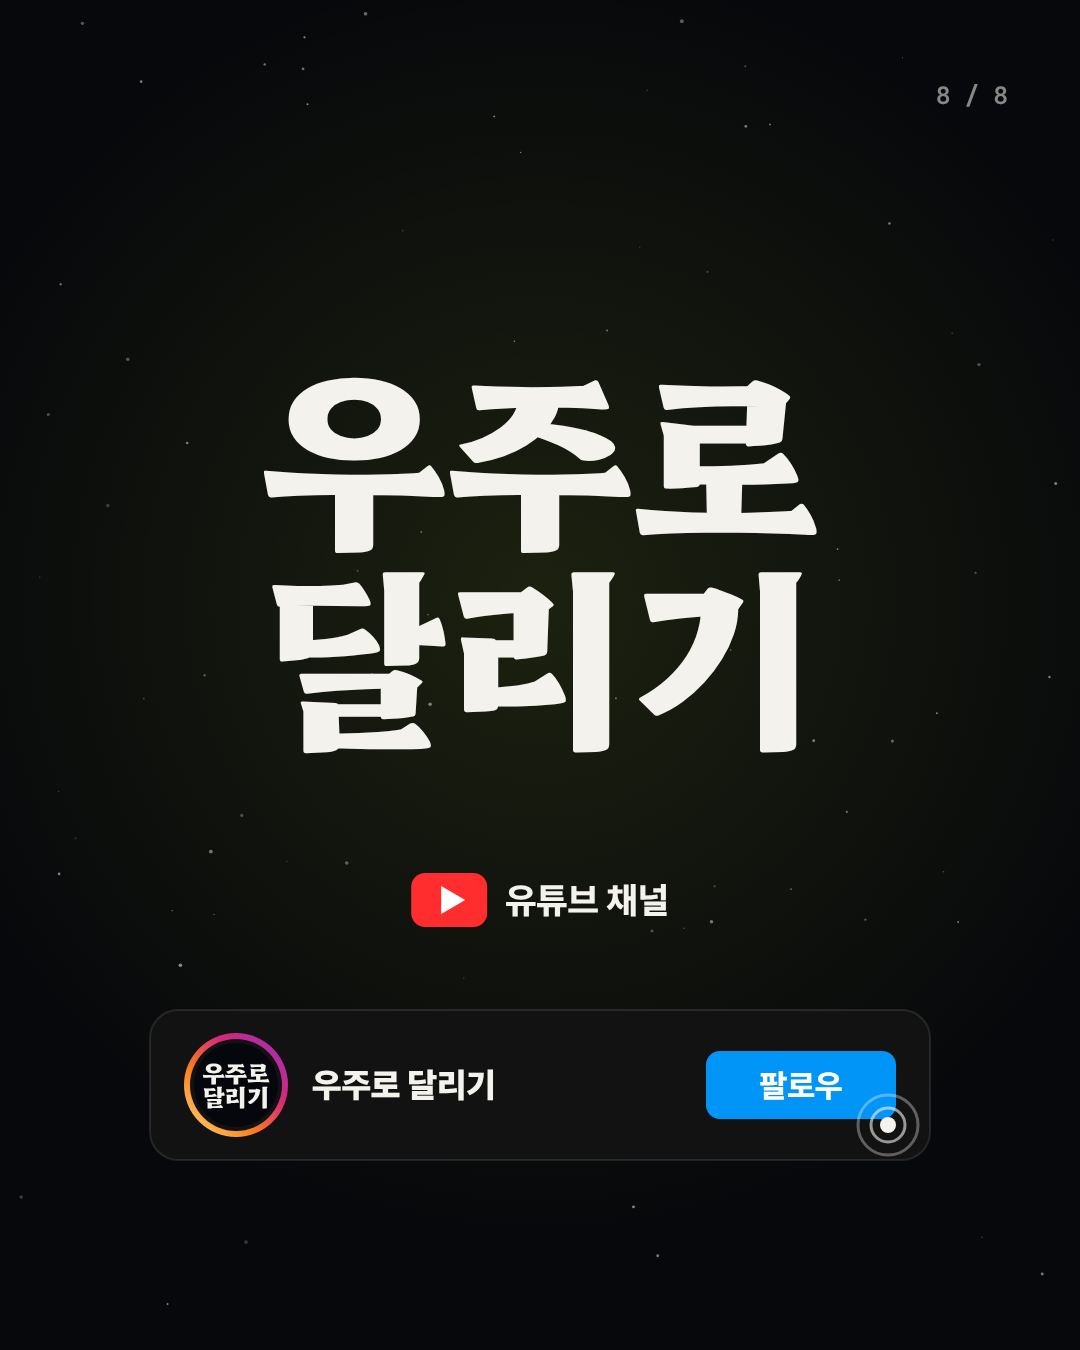
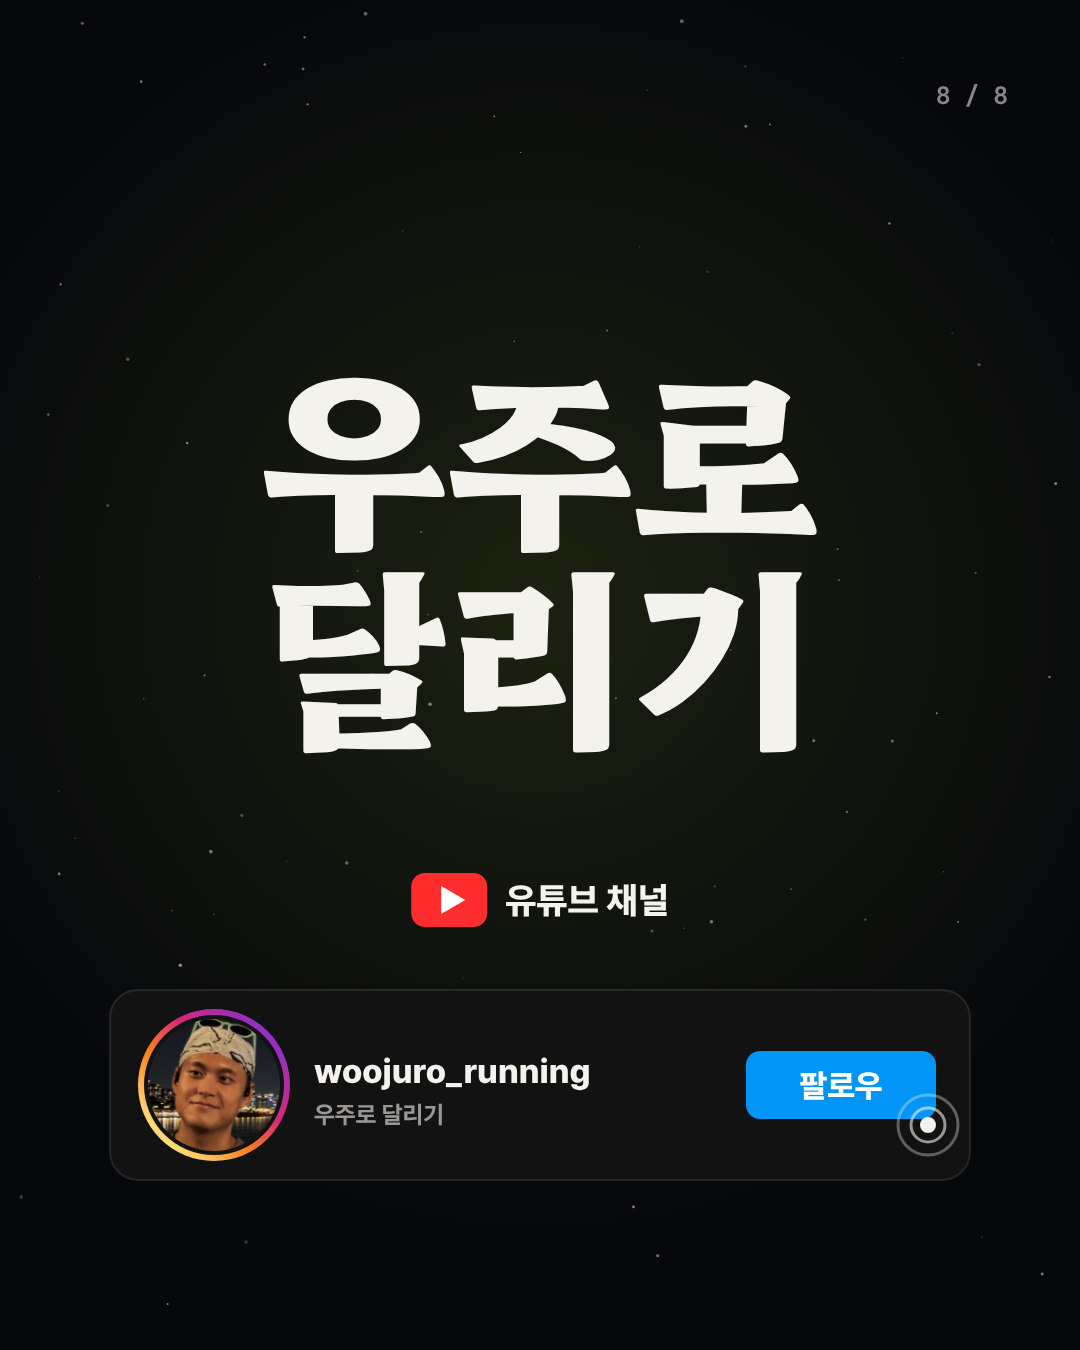
Add circular profile photo and @woojuro_running handle to promo card
Claude-Session: https://claude.ai/code/session_014Y6EAQ8ssYscUPsXE8Frp2

Changed region(s): [[0.1222, 0.7467, 0.55, 0.8711], [0.6417, 0.7778, 0.8861, 0.8711]]

diff --git a/.claude/skills/instagram-training-feed/template/cards.js b/.claude/skills/instagram-training-feed/template/cards.js
@@ -313,14 +313,20 @@ const FEED_CARDS = [
     ctx.fillStyle = '#FFF'; ctx.beginPath(); ctx.moveTo(yx + 30, yy - 14); ctx.lineTo(yx + 54, yy); ctx.lineTo(yx + 30, yy + 14); ctx.closePath(); ctx.fill();
     txt(yt, yx + 94, yy + 13, { size: 36, weight: 800 });
     // 인스타그램 프로필 행처럼: 그라데이션 링 아바타 + 이름 + 파란 팔로우 버튼
-    const px = 150, py = 1010, pw = W - 300, ph = 150;
+    const px = 110, py = 990, pw = W - 220, ph = 190;
     rrect(px, py, pw, ph, 28); ctx.fillStyle = '#121212'; ctx.fill(); ctx.strokeStyle = 'rgba(255,255,255,.1)'; ctx.lineWidth = 2; ctx.stroke();
-    const ax = px + 86, ay = py + ph / 2;
+    const ax = px + 104, ay = py + ph / 2;
     const ring = ctx.createLinearGradient(ax - 50, ay + 50, ax + 50, ay - 50);
     ring.addColorStop(0, '#FEDA75'); ring.addColorStop(.35, '#FA7E1E'); ring.addColorStop(.65, '#D62976'); ring.addColorStop(1, '#962FBF');
-    circle(ax, ay, 52, { fill: ring }); circle(ax, ay, 46, { fill: '#121212' }); circle(ax, ay, 42, { fill: '#05070C' });
-    woojuroText(ax, ay, 24, [['우주로', 0], ['달리기', 0]], .9);
-    txt('우주로 달리기', ax + 76, ay + 12, { size: 34, weight: 900 });
+    circle(ax, ay, 76, { fill: ring }); circle(ax, ay, 70, { fill: '#121212' });
+    // 프로필 사진 (얼굴 부분 원형 크롭)
+    const img = window.PROFILE_IMG, pr = 66;
+    if (img && img.complete && img.naturalWidth) {
+      ctx.save(); ctx.beginPath(); ctx.arc(ax, ay, pr, 0, Math.PI * 2); ctx.clip();
+      ctx.drawImage(img, 600, 520, 560, 560, ax - pr, ay - pr, pr * 2, pr * 2); ctx.restore();
+    } else { circle(ax, ay, pr, { fill: '#05070C' }); woojuroText(ax, ay, 24, [['우주로', 0], ['달리기', 0]], .9); }
+    txt('woojuro_running', ax + 100, ay - 2, { size: 34, weight: 800 });
+    txt('우주로 달리기', ax + 100, ay + 38, { size: 24, weight: 700, alpha: .6 });
     const bw = 190, bh = 68, bx = px + pw - bw - 34, by = ay - bh / 2;
     rrect(bx, by, bw, bh, 14); ctx.fillStyle = '#0095F6'; ctx.fill();
     txt('팔로우', bx + bw / 2, by + 46, { size: 32, weight: 800, color: '#FFFFFF', align: 'center' });
@@ -339,7 +345,9 @@ window.workoutImage = () => {
   const o = document.createElement('canvas'); o.width = W; o.height = 374; o.getContext('2d').drawImage(cv, 0, 0);
   return o.toDataURL('image/png');
 };
+window.PROFILE_IMG = new Image(); window.PROFILE_IMG.src = 'assets/profile.jpg';
 window.ready = window.ready.then(async () => {
+  try { await window.PROFILE_IMG.decode(); } catch (e) { /* 사진이 없으면 로고 아바타로 대체 */ }
   await document.fonts.load('400 100px "Black Han Sans"', '우주로 달리기');
   await document.fonts.load(`${window.BRAND_SIMPLE_WEIGHT || 400} 100px ${window.BRAND_SIMPLE_FONT}`, '우주로 달리기');
   const f = new FontFace('yg-jalnan', 'url(node_modules/@noonnu/yg-jalnan/fonts/yg-jalnan-normal.woff)'); await f.load(); document.fonts.add(f);

diff --git a/run-review/cards.js b/run-review/cards.js
@@ -313,14 +313,20 @@ const FEED_CARDS = [
     ctx.fillStyle = '#FFF'; ctx.beginPath(); ctx.moveTo(yx + 30, yy - 14); ctx.lineTo(yx + 54, yy); ctx.lineTo(yx + 30, yy + 14); ctx.closePath(); ctx.fill();
     txt(yt, yx + 94, yy + 13, { size: 36, weight: 800 });
     // 인스타그램 프로필 행처럼: 그라데이션 링 아바타 + 이름 + 파란 팔로우 버튼
-    const px = 150, py = 1010, pw = W - 300, ph = 150;
+    const px = 110, py = 990, pw = W - 220, ph = 190;
     rrect(px, py, pw, ph, 28); ctx.fillStyle = '#121212'; ctx.fill(); ctx.strokeStyle = 'rgba(255,255,255,.1)'; ctx.lineWidth = 2; ctx.stroke();
-    const ax = px + 86, ay = py + ph / 2;
+    const ax = px + 104, ay = py + ph / 2;
     const ring = ctx.createLinearGradient(ax - 50, ay + 50, ax + 50, ay - 50);
     ring.addColorStop(0, '#FEDA75'); ring.addColorStop(.35, '#FA7E1E'); ring.addColorStop(.65, '#D62976'); ring.addColorStop(1, '#962FBF');
-    circle(ax, ay, 52, { fill: ring }); circle(ax, ay, 46, { fill: '#121212' }); circle(ax, ay, 42, { fill: '#05070C' });
-    woojuroText(ax, ay, 24, [['우주로', 0], ['달리기', 0]], .9);
-    txt('우주로 달리기', ax + 76, ay + 12, { size: 34, weight: 900 });
+    circle(ax, ay, 76, { fill: ring }); circle(ax, ay, 70, { fill: '#121212' });
+    // 프로필 사진 (얼굴 부분 원형 크롭)
+    const img = window.PROFILE_IMG, pr = 66;
+    if (img && img.complete && img.naturalWidth) {
+      ctx.save(); ctx.beginPath(); ctx.arc(ax, ay, pr, 0, Math.PI * 2); ctx.clip();
+      ctx.drawImage(img, 600, 520, 560, 560, ax - pr, ay - pr, pr * 2, pr * 2); ctx.restore();
+    } else { circle(ax, ay, pr, { fill: '#05070C' }); woojuroText(ax, ay, 24, [['우주로', 0], ['달리기', 0]], .9); }
+    txt('woojuro_running', ax + 100, ay - 2, { size: 34, weight: 800 });
+    txt('우주로 달리기', ax + 100, ay + 38, { size: 24, weight: 700, alpha: .6 });
     const bw = 190, bh = 68, bx = px + pw - bw - 34, by = ay - bh / 2;
     rrect(bx, by, bw, bh, 14); ctx.fillStyle = '#0095F6'; ctx.fill();
     txt('팔로우', bx + bw / 2, by + 46, { size: 32, weight: 800, color: '#FFFFFF', align: 'center' });
@@ -339,7 +345,9 @@ window.workoutImage = () => {
   const o = document.createElement('canvas'); o.width = W; o.height = 374; o.getContext('2d').drawImage(cv, 0, 0);
   return o.toDataURL('image/png');
 };
+window.PROFILE_IMG = new Image(); window.PROFILE_IMG.src = 'assets/profile.jpg';
 window.ready = window.ready.then(async () => {
+  try { await window.PROFILE_IMG.decode(); } catch (e) { /* 사진이 없으면 로고 아바타로 대체 */ }
   await document.fonts.load('400 100px "Black Han Sans"', '우주로 달리기');
   await document.fonts.load(`${window.BRAND_SIMPLE_WEIGHT || 400} 100px ${window.BRAND_SIMPLE_FONT}`, '우주로 달리기');
   const f = new FontFace('yg-jalnan', 'url(node_modules/@noonnu/yg-jalnan/fonts/yg-jalnan-normal.woff)'); await f.load(); document.fonts.add(f);

diff --git a/.claude/skills/instagram-training-feed/SKILL.md b/.claude/skills/instagram-training-feed/SKILL.md
@@ -74,7 +74,7 @@ description: "인스타그램 훈련 피드 양식" — Garmin 러닝 데이터(
 | 05 심박존 분석 | 본훈련 존 도넛 + 존별 시간·% + 세트별 존 누적 막대 |
 | 06 회복 & 라스트 | 회복 조깅 N회 평균(거리·페이스·심박) + 구간 칩 / 라스트 스퍼트 페이스 + 약 520m + 목표 대비 |
 | 07 러닝 다이내믹스 | 케이던스·보폭·지면 접촉·수직 진폭·수직 비율·최고 속도 + 훈련 효과 게이지 |
-| 08 우주로 달리기 (홍보) | 최소한으로. 정가운데 `woojuroText()` 로고 — **흰색 한 색, 장식 없음**(기울임·그림자·그라데이션·라임 강조 모두 금지, 사용자 피드백). 서체만 `window.BRAND_SIMPLE_FONT`로 바꿔 쓴다(기본 **Hahmlet ExtraBold**, 사용자 선택 6번). 후보 비교는 `template/font-options.html`(Orbit, Do Hyeon, Gasoek One, Song Myung, Gothic A1, Hahmlet, Jua, Bagel Fat One). 아래에 유튜브 아이콘 + "유튜브 채널", 인스타그램 프로필 줄(그라데이션 링 아바타 + "우주로 달리기" + 파란 `#0095F6` "팔로우" + 탭 표시). 그 밖의 문구 없음 |
+| 08 우주로 달리기 (홍보) | 최소한으로. 정가운데 `woojuroText()` 로고 — **흰색 한 색, 장식 없음**(기울임·그림자·그라데이션·라임 강조 모두 금지, 사용자 피드백). 서체만 `window.BRAND_SIMPLE_FONT`로 바꿔 쓴다(기본 **Hahmlet ExtraBold**, 사용자 선택 6번). 후보 비교는 `template/font-options.html`(Orbit, Do Hyeon, Gasoek One, Song Myung, Gothic A1, Hahmlet, Jua, Bagel Fat One). 아래에 유튜브 아이콘 + "유튜브 채널", 인스타그램 프로필 줄(그라데이션 링 아바타에 **사용자 프로필 사진 얼굴 원형 크롭** — `assets/profile.jpg`, `drawImage` 크롭 영역은 사진마다 조정; 아이디 **woojuro_running** + 아래 "우주로 달리기" + 파란 `#0095F6` "팔로우" + 탭 표시). 그 밖의 문구 없음. 프로필 사진 원본은 저장소에 커밋하지 않는다(`.gitignore`) |
 
 파워·심박 회복은 카드에도 넣지 않는다. `node render.mjs --cards`로 `out/cards/`에 저장.
 
